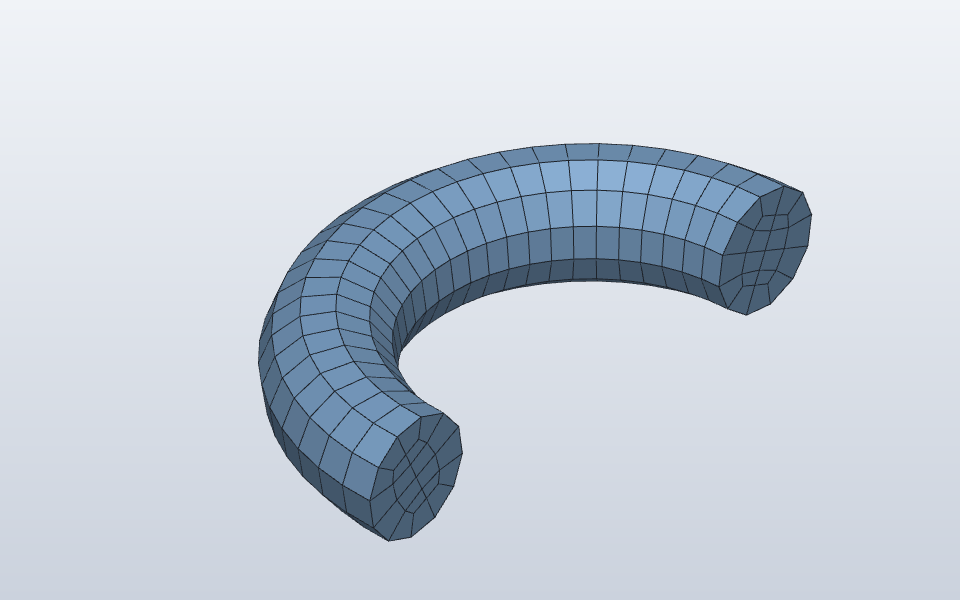
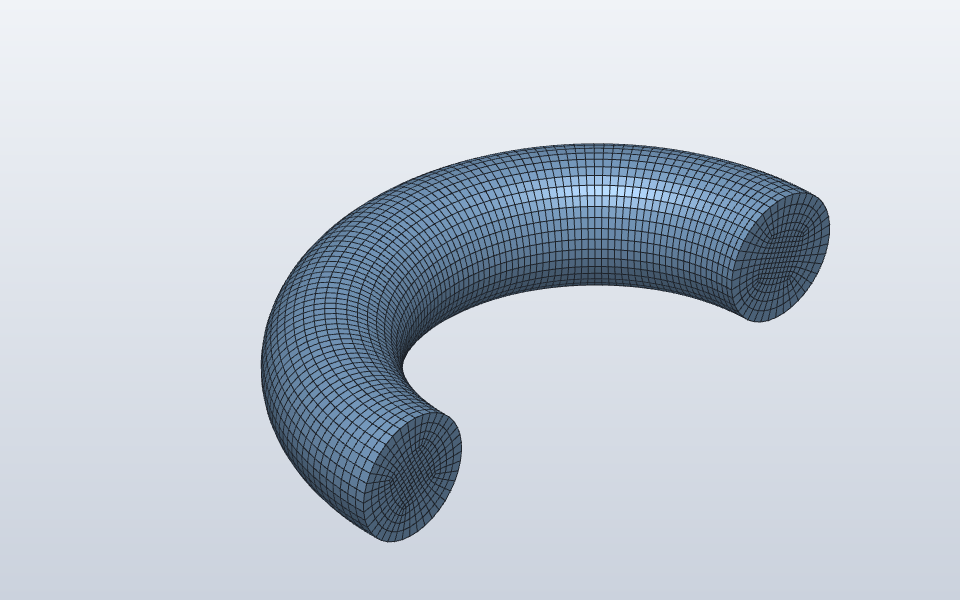
docs: skill results with the plan sized for its chords
Claude-Session: https://claude.ai/code/session_01UhhZMBTviDQxZvwnyP89fo

Changed region(s): [[0.25, 0.24, 0.875, 0.9]]

diff --git a/docs/meshing/skill-results.md b/docs/meshing/skill-results.md
@@ -19,7 +19,7 @@ with (a set on them finds nothing); `marked` the elements failing the limits bef
 relaxing, and what relaxing changed; ¹ a tet mesh has no edge ratio: its largest aspect ratio
 stands in; `duplicates` coincident nodes and cracks; `geometry.check` its findings at the size;
 `verdict` pass when the minimum scaled Jacobian and the largest edge ratio meet the limits and
-the volume is within 2 % (`pass (fallback)` when a fallback meshed it).
+the volume is within 1 % (`pass (fallback)` when a fallback meshed it).
 The section pictures cut each part through the middle of its longest side, marked elements red.
 Times are wall clock on the machine that ran it.
 
@@ -27,43 +27,41 @@ Times are wall clock on the machine that ran it.
 
 | part | method | symmetry | elements | min SJ | mean SJ | max edge ratio¹ | volume error | untagged faces | marked → after relax | duplicates | geometry.check | time s | verdict | section |
 |---|---|---|---|---|---|---|---|---|---|---|---|---|---|---|
-| bent-tube | plan (sweep) | – | 192 (192 hex8) | 0.861 | 0.865 | 5.0 | -1.7e-1 | 0 | 0 (not relaxed) | none | 8 near_faces, 2 sliver_face | 1.9 | fail (volume) | [y=37.500](skill/bent-tube.png) |
-| bolted-assembly | plan (sweep), mesh.hex.generate (auto) | – | 6272 (6272 hex8) | 0.583 | 0.939 | 3.6 | 2.0e-4 | 0 | 0 (not relaxed) | 8 coincident, 0 cracks | – | 3.9 | pass | [x=50.000](skill/bolted-assembly.png) |
-| cantilever-i-beam | plan (sweep) | – | 61600 (61600 hex8) | 1.000 | 1.000 | 1.0 | 0.0e0 | 0 | 0 (not relaxed) | none | – | 5.7 | pass | [x=100.000](skill/cantilever-i-beam.png) |
-| cross-cylinders | none | – | – | – | – | – | – | – | – | – | – | 18.3 | no mesh | – |
-| filleted-bracket | tet10 | – | 19557 (19557 tet10) | 0.042 | 0.519 | 9.1 | -6.7e-6 | 0 | 1709 (not relaxed) | none | – | 35.5 | fail (SJ) | [x=30.000](skill/filleted-bracket.png) |
-| filleted-bracket-blocks | plan (sweep) | – | 75410 (75410 hex8) | 0.704 | 0.954 | 3.5 | 3.7e-5 | 0 | 0 (not relaxed) | none (after merging 2348 nodes) | – | 16.7 | pass | [x=30.000](skill/filleted-bracket-blocks.png) |
-| i-beam | plan (sweep) | – | 61600 (61600 hex8) | 1.000 | 1.000 | 1.0 | 0.0e0 | 0 | 0 (not relaxed) | none | – | 9.3 | pass | [z=100.000](skill/i-beam.png) |
-| loft-transition | plan (sweep) | – | 2873 (2873 hex8) | 0.189 | 0.960 | 2.2 | -2.1e-3 | 0 | 4 → 4 (4 relaxed, 0 undone; min SJ 0.189 → 0.189, max ratio 1.7 → 2.2) | none | – | 2.3 | fail (SJ) | [z=25.000](skill/loft-transition.png) |
-| perforated-plate | plan (project) | 2 plane(s) | 8576 (8576 hex8) | 0.707 | 0.888 | 3.0 | 7.7e-4 | 0 | 0 (not relaxed) | none | – | 33.5 | pass | [x=60.000](skill/perforated-plate.png) |
-| pinhole-block | plan (project) | 2 plane(s) | 5068 (5068 hex8) | 0.707 | 0.942 | 18.4 | 8.1e-5 | 0 | 1680 (not relaxed) | none | 32 sliver_face | 24.0 | fail (ratio) | [y=25.000](skill/pinhole-block.png) |
-| rounded-box | plan (project) | 2 plane(s) | 9260 (9260 hex8) | 0.734 | 0.985 | 2.2 | -4.1e-3 | 0 | 0 (not relaxed) | none | – | 10.3 | pass | [x=20.000](skill/rounded-box.png) |
+| bent-tube | plan (sweep) | – | 22272 (22272 hex8) | 0.998 | 0.998 | 1.4 | -2.8e-3 | 0 | 0 (not relaxed) | none | – | 3.7 | pass | [y=37.500](skill/bent-tube.png) |
+| bolted-assembly | plan (sweep), mesh.hex.generate (auto) | – | 6272 (6272 hex8) | 0.583 | 0.939 | 3.6 | 2.0e-4 | 0 | 0 (not relaxed) | 8 coincident, 0 cracks | – | 3.7 | pass | [x=50.000](skill/bolted-assembly.png) |
+| cantilever-i-beam | plan (sweep) | – | 61600 (61600 hex8) | 1.000 | 1.000 | 1.0 | 0.0e0 | 0 | 0 (not relaxed) | none | – | 8.5 | pass | [x=100.000](skill/cantilever-i-beam.png) |
+| cross-cylinders | none | – | – | – | – | – | – | – | – | – | – | 27.2 | no mesh | – |
+| filleted-bracket | tet10 | – | 21525 (21525 tet10) | 0.021 | 0.535 | 13.5 | -7.0e-6 | 0 | 1492 (not relaxed) | none | – | 15.9 | fail (SJ, ratio) | [x=30.000](skill/filleted-bracket.png) |
+| filleted-bracket-blocks | plan (sweep) | – | 75410 (75410 hex8) | 0.704 | 0.954 | 3.5 | 3.7e-5 | 0 | 0 (not relaxed) | none (after merging 2348 nodes) | – | 6.9 | pass | [x=30.000](skill/filleted-bracket-blocks.png) |
+| i-beam | plan (sweep) | – | 61600 (61600 hex8) | 1.000 | 1.000 | 1.0 | 0.0e0 | 0 | 0 (not relaxed) | none | – | 4.5 | pass | [z=100.000](skill/i-beam.png) |
+| loft-transition | plan (sweep) | – | 2873 (2873 hex8) | 0.189 | 0.959 | 1.7 | -2.1e-3 | 0 | 4 → 4 (4 relaxed, 0 undone; min SJ 0.189 → 0.189, max ratio 1.7 → 1.7) | none | – | 0.9 | fail (SJ) | [z=25.000](skill/loft-transition.png) |
+| perforated-plate | plan (project) | 2 plane(s) | 8576 (8576 hex8) | 0.707 | 0.888 | 3.0 | 7.7e-4 | 0 | 0 (not relaxed) | none | – | 9.5 | pass | [x=60.000](skill/perforated-plate.png) |
+| pinhole-block | plan (project) | 2 plane(s) | 40768 (40768 hex8) | 0.707 | 0.984 | 8.0 | 8.1e-5 | 0 | 0 (not relaxed) | none | – | 25.5 | pass | [y=25.000](skill/pinhole-block.png) |
+| rounded-box | plan (project) | 2 plane(s) | 11520 (11520 hex8) | 0.717 | 0.973 | 4.0 | -4.1e-3 | 0 | 0 (not relaxed) | none | – | 8.7 | pass | [x=20.000](skill/rounded-box.png) |
 | shallow-groove | plan (sweep) | – | 1960 (1960 hex8) | 0.991 | 0.999 | 1.1 | 2.7e-4 | 0 | 0 (not relaxed) | none | – | 0.2 | pass | [x=30.000](skill/shallow-groove.png) |
 | sharp-wedge | plan (sweep) | – | 1674 (1674 hex8) | 0.014 | 0.301 | 149.6 | 2.7e-15 | 0 | 1524 (not relaxed) | none | – | 0.2 | fail (SJ, ratio) | [x=40.000](skill/sharp-wedge.png) |
-| sphere-on-plate | tet10 | – | 15073 (15073 tet10) | 0.121 | 0.558 | 6.2 | -1.1e-4 | 0 | 662 (not relaxed) | none | – | 5.0 | fail (SJ) | [y=0.000](skill/sphere-on-plate.png) |
-| spline-vase | plan (sweep) | – | 4536 (4536 hex8) | 0.665 | 0.945 | 9.9 | -6.6e-3 | 0 | 0 (not relaxed) | none | – | 0.8 | pass | [z=-35.000](skill/spline-vase.png) |
-| stepped-block | plan (cells) | – | 1416 (1416 hex8) | 1.000 | 1.000 | 1.3 | -4.8e-15 | 0 | 0 (not relaxed) | none | – | 0.5 | pass | [x=30.000](skill/stepped-block.png) |
-| thin-ribs | plan (sweep) | – | 301308 (301308 hex8) | 0.999 | 1.000 | 1.3 | -3.4e-12 | 0 | 0 (not relaxed) | none | – | 34.0 | pass | [x=50.000](skill/thin-ribs.png) |
-| thin-wall-enclosure | plan (sweep) | – | 124512 (124512 hex8) | 1.000 | 1.000 | 1.0 | 0.0e0 | 0 | 0 (not relaxed) | none | – | 21.8 | pass | [x=40.000](skill/thin-wall-enclosure.png) |
-| analytic-sphere | mesh.hex.project (sphere) | – | 864 (864 hex8) | 0.702 | 0.929 | 2.7 | -3.0e-2 | 0 | 0 (not relaxed) | none | – | 2.5 | fail (volume) | [z=0.000](skill/analytic-sphere.png) |
-| analytic-torus | plan (sweep) | – | 1080 (1080 hex8) | 0.834 | 0.909 | 2.4 | -4.7e-2 | 0 | 0 (not relaxed) | none | – | 1.0 | fail (volume) | [x=0.000](skill/analytic-torus.png) |
-| analytic-cylinder | plan (project) | – | 1700 (1700 hex8) | 0.845 | 0.970 | 1.9 | -1.6e-2 | 0 | 0 (not relaxed) | none | – | 1.4 | pass | [z=20.000](skill/analytic-cylinder.png) |
-| analytic-pipe | plan (project) | – | 1008 (1008 hex8) | 0.996 | 0.996 | 1.4 | -5.0e-3 | 0 | 0 (not relaxed) | none | – | 1.0 | pass | [z=30.000](skill/analytic-pipe.png) |
-| analytic-plate-hole | plan (project) | – | 5856 (5856 hex8) | 0.937 | 0.996 | 3.0 | 4.3e-5 | 0 | 0 (not relaxed) | none | – | 5.8 | pass | [x=100.000](skill/analytic-plate-hole.png) |
-| crank-arm | plan (project) | – | 1372 (1372 hex8) | 0.544 | 0.860 | 10.5 | -3.3e-3 | 0 | 9 (9 relaxations undone: worse) | none | 16 short_edge, 9 sliver_face | 48.2 | fail (ratio) | [x=81.000](skill/crank-arm.png) |
-| upright-bracket | plan (sweep) | – | 1364 (1364 hex8) | 0.707 | 0.968 | 3.1 | 2.1e-4 | 0 | 0 (not relaxed) | none | – | 0.2 | pass | [x=30.000](skill/upright-bracket.png) |
-| pi5-base | plan (project) | 1 plane(s) | 29852 (29852 hex8) | 0.683 | 0.969 | 4.9 | -3.0e-3 | 0 | 0 (not relaxed) | none | 8 short_edge, 4 sliver_face | 197.5 | pass | [x=56.000](skill/pi5-base.png) |
-| pi5-lid | plan (project) | – | 5130 (5130 hex8) | 0.724 | 0.868 | 3.9 | -2.9e-4 | 0 | 0 (not relaxed) | none | – | 10.7 | pass | [x=56.000](skill/pi5-lid.png) |
-| cup | plan (project) | – | 1114 (1114 hex8) | 0.701 | 0.921 | 5.0 | -4.5e-3 | 0 | 0 (not relaxed) | none | – | 3.0 | pass | [x=5.000](skill/cup.png) |
-| plain-cup | mesh.hex.generate (auto) | – | 2000 (2000 hex8) | 0.820 | 0.995 | 4.7 | -2.3e-3 | 0 | 0 (not relaxed) | none | – | 0.9 | pass (fallback) | [x=0.000](skill/plain-cup.png) |
+| sphere-on-plate | tet10 | – | 23799 (23799 tet10) | 0.092 | 0.587 | 5.9 | -8.7e-5 | 0 | 679 (not relaxed) | none | – | 13.7 | fail (SJ) | [y=0.000](skill/sphere-on-plate.png) |
+| spline-vase | plan (sweep) | – | 4536 (4536 hex8) | 0.665 | 0.945 | 9.9 | -6.6e-3 | 0 | 0 (not relaxed) | none | – | 2.3 | pass | [z=-35.000](skill/spline-vase.png) |
+| stepped-block | plan (cells) | – | 1416 (1416 hex8) | 1.000 | 1.000 | 1.3 | -4.8e-15 | 0 | 0 (not relaxed) | none | – | 1.6 | pass | [x=30.000](skill/stepped-block.png) |
+| thin-ribs | plan (sweep) | – | 301308 (301308 hex8) | 0.999 | 1.000 | 1.3 | -3.4e-12 | 0 | 0 (not relaxed) | none | – | 34.7 | pass | [x=50.000](skill/thin-ribs.png) |
+| thin-wall-enclosure | plan (sweep) | – | 124512 (124512 hex8) | 1.000 | 1.000 | 1.0 | 0.0e0 | 0 | 0 (not relaxed) | none | – | 13.5 | pass | [x=40.000](skill/thin-wall-enclosure.png) |
+| analytic-sphere | mesh.hex.project (sphere) | – | 3400 (3400 hex8) | 0.728 | 0.968 | 3.3 | -1.1e-2 | 0 | 0 (not relaxed) | none | – | 8.8 | fail (volume) | [z=0.000](skill/analytic-sphere.png) |
+| analytic-torus | plan (sweep) | – | 48360 (48360 hex8) | 0.837 | 0.986 | 2.9 | -4.2e-3 | 0 | 0 (not relaxed) | none | – | 9.8 | pass | [x=0.000](skill/analytic-torus.png) |
+| analytic-cylinder | plan (project) | – | 4347 (4347 hex8) | 0.859 | 0.985 | 2.4 | -4.9e-3 | 0 | 0 (not relaxed) | none | – | 7.3 | pass | [z=20.000](skill/analytic-cylinder.png) |
+| analytic-pipe | plan (project) | – | 2244 (2244 hex8) | 0.997 | 0.997 | 1.3 | -3.3e-3 | 0 | 0 (not relaxed) | none | – | 3.6 | pass | [z=30.000](skill/analytic-pipe.png) |
+| analytic-plate-hole | plan (project) | – | 5856 (5856 hex8) | 0.937 | 0.996 | 3.0 | 4.3e-5 | 0 | 0 (not relaxed) | none | – | 4.7 | pass | [x=100.000](skill/analytic-plate-hole.png) |
+| crank-arm | plan (project) | – | 4014 (4014 hex8) | 0.578 | 0.933 | 5.8 | -8.4e-4 | 0 | 0 (not relaxed) | none | 4 short_edge, 2 sliver_face | 21.7 | pass | [x=81.000](skill/crank-arm.png) |
+| upright-bracket | plan (sweep) | – | 1364 (1364 hex8) | 0.707 | 0.968 | 3.1 | 2.1e-4 | 0 | 0 (not relaxed) | none | – | 0.1 | pass | [x=30.000](skill/upright-bracket.png) |
+| pi5-base | plan (project) | 1 plane(s) | 29852 (29852 hex8) | 0.683 | 0.969 | 4.9 | -3.0e-3 | 0 | 0 (not relaxed) | none | 8 short_edge, 4 sliver_face | 131.2 | pass | [x=56.000](skill/pi5-base.png) |
+| pi5-lid | plan (project) | – | 5130 (5130 hex8) | 0.724 | 0.868 | 3.9 | -2.9e-4 | 0 | 0 (not relaxed) | none | – | 10.5 | pass | [x=56.000](skill/pi5-lid.png) |
+| cup | plan (project) | – | 1258 (1258 hex8) | 0.702 | 0.929 | 5.0 | -3.5e-3 | 0 | 0 (not relaxed) | none | – | 3.0 | pass | [x=5.000](skill/cup.png) |
+| plain-cup | mesh.hex.generate (auto) | – | 2000 (2000 hex8) | 0.820 | 0.995 | 4.7 | -2.3e-3 | 0 | 0 (not relaxed) | none | – | 1.3 | pass (fallback) | [x=0.000](skill/plain-cup.png) |
 
 ## Why a part fails
 
 Each earlier method's error, in the order the skill tries them, and for a part that fails the
 limits the cause read from its numbers and section picture.
 
-- `bent-tube` (corpus: A 10 mm tube with a 1 mm wall, bent through R30: a thin-walled sweep along a line-arc-line path.):
-  - **fail (volume)**: the plan's default size (1/25 of the diagonal) puts six elements round the Ø10 tube: the swept section is a hexagon and loses 17 % of the volume. Size from the tube's radius (§5), not the part's diagonal.
 - `bolted-assembly` (corpus: A base plate with a clamp block component placed twice, once turned 90 degrees: bodies placed by component transforms.):
   - Clamp body: mesh.plan.apply: mesh plan `Plan-Clamp_body`: the projected layout does not mesh: invalid input: node 3076 at [11.000000000000004, 10.0, 5.0] lies on the edge between nodes 2640 and 2715: new elements must meet the mesh face to face, with the same divisions…
   - Clamp body (Clamp:2): mesh.plan.apply: mesh plan `Plan-Clamp_body__Clamp_2_`: the projected layout does not mesh: invalid input: node 5884 at [66.42857142857143, 5.000000000000001, 5.0] lies on the edge between nodes 984 and 1059: new elements must meet the mesh face to face, wi…
@@ -71,34 +69,28 @@ limits the cause read from its numbers and section picture.
   - Cross: mesh.plan.apply: mesh plan `Plan-Cross`: the cells ["Cross"] (cuts []) do not mesh all-hex: body `Cross`: invalid boundary surface: 28 defects; triangles 142 and 254 are oriented inconsistently across edge 0–396 at (-15.488656021315903, 4.577998041166734, 7…
   - Cross: mesh.hex.generate: body `Cross`: invalid boundary surface: 28 defects; triangles 146 and 258 are oriented inconsistently across edge 0–402 at (-15.488656021315903, 4.577998041166734, 7.853092194999726); triangles 255 and 258 are oriented inconsistently across…
   - Cross: mesh.hex.project (sphere): body `Cross`: invalid boundary surface: 28 defects; triangles 146 and 258 are oriented inconsistently across edge 0–402 at (-15.488656021315903, 4.577998041166734, 7.853092194999726); triangles 255 and 258 are oriented inconsistently across…
-  - Cross: mesh.tet.generate: invalid boundary surface: 28 defects; triangles 146 and 258 are oriented inconsistently across edge 0–402 at (-15.488656021315903, 4.577998041166734, 7.853092194999726); triangles 255 and 258 are oriented inconsistently across edge 0–565 at…
+  - Cross: mesh.tet.generate: invalid boundary surface: 28 defects; triangles 76 and 78 are oriented inconsistently across edge 9–230 at (-18.75000000000002, 5.634596901641276, 7.632255089815496); triangles 77 and 78 are oriented inconsistently across edge 9–232 at (-15…
   - **no mesh**: the boundary tessellation of the joined cylinders is invalid (inconsistent orientation at the two singular points), so every mesher refuses the body.
 - `filleted-bracket` (corpus: An 8 mm L-bracket with an R6 inside fillet and a hole through each leg: a blend beside holes.):
   - Bracket: mesh.plan.apply: mesh plan `Plan-Bracket`: the cells ["Bracket"] (cuts []) do not mesh all-hex: body `Bracket`: not supported yet: no structured hex method fits this body (extrude: cylindrical face 8 is not parallel to the direction; sweep: from face 1: lin…
   - Bracket: mesh.hex.generate: body `Bracket`: not supported yet: no structured hex method fits this body (extrude: cylindrical face 8 is not parallel to the direction; sweep: from face 1: linking face 6 has 2 boundary loops (periodic or holed linking faces are not swept…
-  - Bracket: mesh.hex.project (sphere): body `Bracket`: meshing failed: 120 of 5104 elements are inverted, twisted or degenerate after projection (certified Jacobian; smallest corner scaled Jacobian -0.760): block 1 cell [4, 0, 0] near (20.373, 3.413, 3.606); block 1 cell [5, 0, …
-  - **fail (SJ)**: no structured method takes the whole body (the plan has no cuts for the fillet beside the holes), and tet10 at the plan's size leaves slivers (min SJ 0.04, 1709 marked). The same part partitioned into mapped cells (`filleted-bracket-blocks`) passes: partition (§3.4).
+  - Bracket: mesh.hex.project (sphere): body `Bracket`: meshing failed: 91 of 5104 elements are inverted, twisted or degenerate after projection (certified Jacobian; smallest corner scaled Jacobian -0.760): block 1 cell [3, 3, 0] near (12.519, 11.405, 1.604); block 1 cell [3, 4, …
+  - **fail (SJ, ratio)**: no structured method takes the whole body (the plan has no cuts for the fillet beside the holes), and tet10 at the plan's size leaves slivers (min SJ 0.04, 1709 marked). The same part partitioned into mapped cells (`filleted-bracket-blocks`) passes: partition (§3.4).
 - `loft-transition` (corpus: A 40 mm square lofted to an R15 circle 50 mm above: a ruled free-form surface between unlike sections.):
   - **fail (SJ)**: the lofted sides are swept one to one, and the elements where the section changes shape are skewed (min SJ 0.19). Relaxing the four marked elements did not raise it: the blocks are wrong, not the nodes (§6.3). A loft has no template yet (`unmapped`).
-- `pinhole-block` (corpus: A 50 mm block drilled through by sixteen 0.6 mm pinholes: features 80 times smaller than the part, genus 16.):
-  - **fail (ratio)**: the plan's cuts run beside the small holes' frames and leave strips of thin elements along the cut planes (red in the picture, edge ratio 18): 1680 marked, a clustered failure. §4: offset a cut one element out of the feature.
 - `sharp-wedge` (corpus: A wedge whose faces meet at under 3 degrees: a sharp edge with a needle-thin cross-section.):
-  - **fail (SJ, ratio)**: the wedge's sharp edge is swept as hex, so every element tapers to it (min SJ 0.01, edge ratio 150). §4: a column of wedge6 at the edge; the plan has no wedge template.
+  - **fail (SJ, ratio)**: the wedge's sharp edge is swept as hex, so every element tapers to it (min SJ 0.01, edge ratio 150). A column of wedge6 at the edge (§4) raises the SJ but not the ratio: any element with a corner on a 2.9° edge has sides at least 1/tan 2.9° ≈ 20 times its width there, twice the limit. The edge has to be blunted (defeatured) or the limit waived along it.
 - `sphere-on-plate` (corpus: A sphere sunk 0.1 mm into a plate: the faces meet at under 6 degrees around a 2 mm circle.):
   - Plate: mesh.plan.apply: mesh plan `Plan-Plate`: the cells ["Plate"] (cuts []) do not mesh all-hex: body `Plate`: not supported yet: no structured hex method fits this body (extrude: face 6 is curved across the direction; sweep: from face 0: 6 faces are not on the …
   - Plate: mesh.hex.generate: body `Plate`: not supported yet: no structured hex method fits this body (extrude: face 6 is curved across the direction; sweep: from face 0: 6 faces are not on the sweep path; from face 5: linking face 11 has 2 boundary loops (periodic or …
-  - Plate: mesh.hex.project (sphere): body `Plate`: meshing failed: the mesh volume 32014.728344815157 is far from the body's 69353.30815403847: the blocks do not cover the part (every outer block face must stand for part of its surface)
+  - Plate: mesh.hex.project (sphere): body `Plate`: meshing failed: the mesh volume 32917.42909007507 is far from the body's 69353.30815403847: the blocks do not cover the part (every outer block face must stand for part of its surface)
   - **fail (SJ)**: no structured method takes the plate with the sunk sphere, and tet10 leaves slivers (min SJ 0.12, 662 marked).
 - `analytic-sphere` (corpus: Sphere r 20: curvature everywhere, no edges.):
   - Sphere: mesh.plan.apply: mesh plan `Plan-Sphere`: the cells ["Sphere"] (cuts []) do not mesh all-hex: body `Sphere`: not supported yet: no structured hex method fits this body (extrude: no direction to try; sweep: no planar face to sweep from; revolve: no axis to t…
   - Sphere: mesh.hex.generate: body `Sphere`: not supported yet: no structured hex method fits this body (extrude: no direction to try; sweep: no planar face to sweep from; revolve: no axis to try; mapped: meshing failed: meshing failed: mesh validity gate: 8 inverted or…
-  - **fail (volume)**: the sphere template meshes it cleanly, but hex8 faces chord the sphere at the plan's size and the mesh is 3 % short of its volume: refine, or hex20 (`order: 2`).
-- `analytic-torus` (corpus: Torus 30/8: genus 1 with doubly curved faces and no edges.):
-  - **fail (volume)**: the revolve is clean, but hex8 faces chord the torus at the plan's size and the mesh is 4.7 % short of its volume: refine, or hex20.
-- `crank-arm` (sample `crank-arm`: the 170 mm bicycle crank, mirror symmetric across y = 0):
-  - **fail (ratio)**: the edge ratio is 10.5 in the nine elements at the square bore's R1.5 corners, just over the limit. Relaxing each raised its region's edge ratio, so each was undone (§6.3). `mesh.plan.apply` did not find the y = 0 symmetry plane; the sample meshes the partitioned half and mirrors it.
+  - **fail (volume)**: no structured method takes a sphere (it has no face to sweep from or axis to revolve about), so the plan does not apply and the fallback's sphere template meshes it at the plan's size (2.45 mm, which keeps a sphere's chords to 0.75 % on paper), 1.1 % short of the volume: the template's elements at the cube's eight corners span more of the sphere than the size. A sphere template in the plan (§3) would size its caps; hex20 (`order: 2`) closes it too.
 - `plain-cup` (the cup without its handle (#418)):
-  - Cup: mesh.plan.apply: mesh plan `Plan-Cup`: the projected layout does not mesh: body `Cup`: meshing failed: the mesh volume 4994.312243612882 is far from the body's 16760.91944296662: the blocks do not cover the part (every outer block face must stand for part o…
+  - Cup: mesh.plan.apply: mesh plan `Plan-Cup`: the projected layout does not mesh: body `Cup`: meshing failed: the mesh volume 5012.205781249979 is far from the body's 16760.91944296662: the blocks do not cover the part (every outer block face must stand for part o…
 
 ## Parts
 
